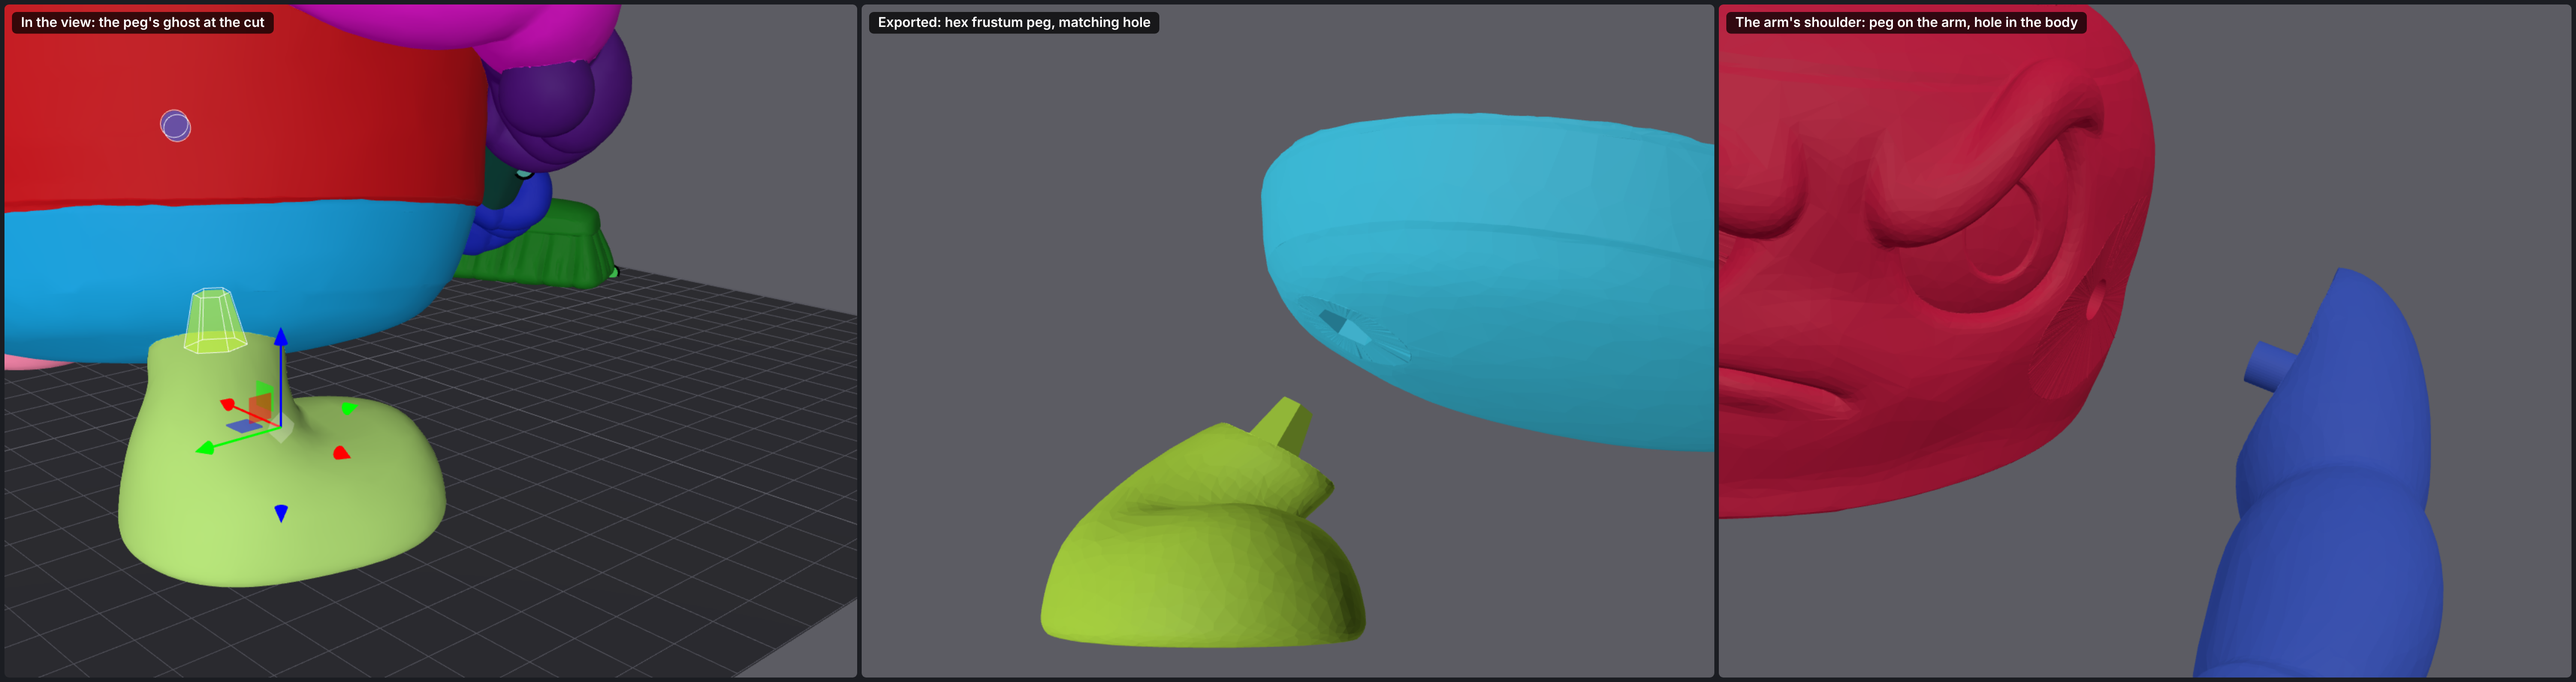
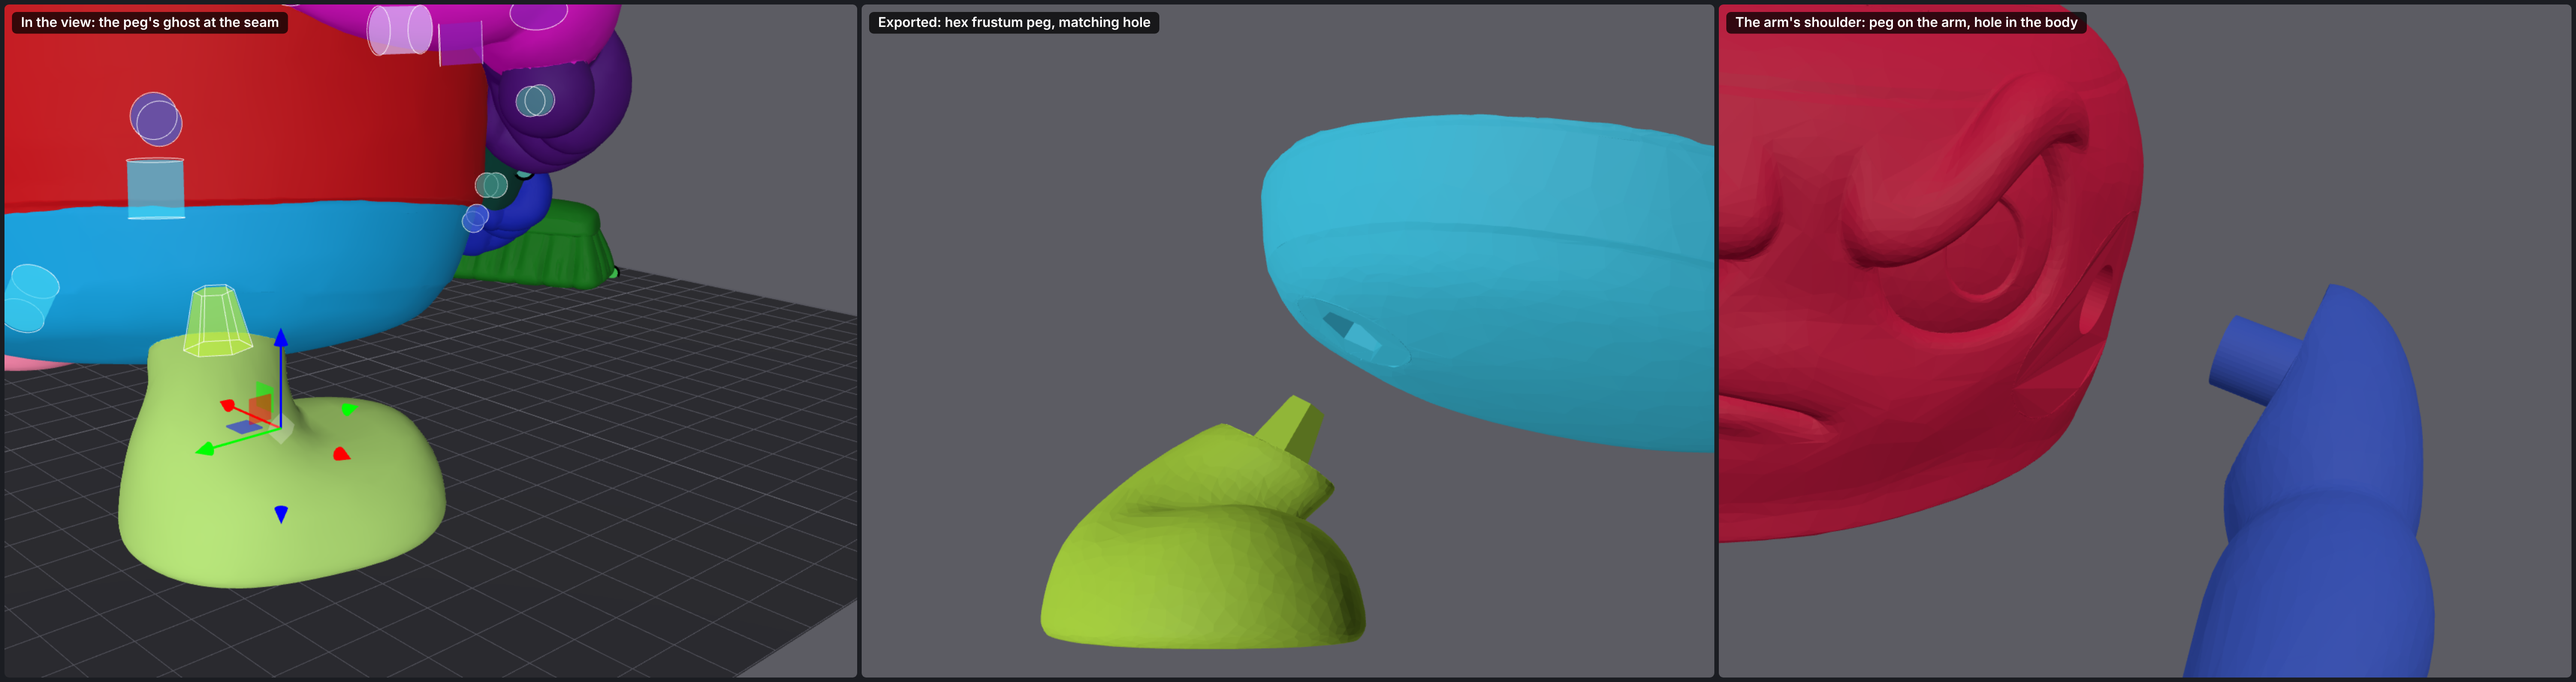
docs: connectors on seams, the Connectors section and part card
The recorder can clip the box around several elements.

Claude-Session: https://claude.ai/code/session_01FChPq3NmNDzMwYeW34SaJS

diff --git a/docs/features/demo/connectors.js b/docs/features/demo/connectors.js
@@ -1,26 +1,31 @@
-// Helpers for connectors.json: connectors on the curler's left foot and right arm (shoulder), and the exported parts (the multi-part
-// 3MF's meshes, connectors included) pulled apart along each connector's axis.
+// Helpers for connectors.json: every seam of the curler connected, the left foot's peg made a hexagonal frustum, and
+// the exported parts (the multi-part 3MF's meshes, connectors included) pulled apart along a connector's axis.
 (async () => {
   const THREE = await import("three"), S = app.S;
   window.wait = (ms) => new Promise((r) => setTimeout(r, ms));
   window.cam = (p, t) => { app.camera.position.set(...p); app.controls.target.set(...t); app.camera.up.set(0, 0, 1); app.camera.lookAt(...t); app.controls.update(); app.render(); };
-  const set = (i, o) => { S.parts[i].conn = { ...app.connDefaults(i, o.type || "plug"), ...o }; };
-  set(8, { shape: "hex", style: "frustum" }); // the left foot: a hexagonal, tapered peg into the base
-  set(3, {}); // the right arm: a round peg into the body at the shoulder
-  S.active = 8; app.afterEdit("");
-  const axis = (k) => new THREE.Vector3().setFromMatrixColumn(app.connPlan(k).F, 2);
-  const A = { 8: axis(8), 3: axis(3) }, color = Object.fromEntries(S.parts.map((p) => [p.name, p.color])), ex = {};
+  const names = ["Stone", "Broom head", "Right arm", "Handle", "Left hand", "Base", "Left arm", "Left foot", "Right foot", "Broom stick", "Eyes"];
+  names.forEach((n, k) => { S.parts[k + 1].name = n; });
+  const idx = (n) => S.parts.findIndex((p) => p.name === n);
+  app.connectSeams(app.seams());
+  const at = (a, b) => app.connState().list.find((e) => e.s && [e.s.a, e.s.b].sort().join() === [idx(a), idx(b)].sort().join());
+  app.editConns([at("Base", "Left foot").k], (c) => { c.shape = "hex"; c.style = "frustum"; }, "");
+  window.part = (n) => { S.active = idx(n); app.afterEdit(""); };
+  part("Left foot");
+  const axis = (e) => new THREE.Vector3().setFromMatrixColumn(e.pl.F, 2);
+  const arm = at("Stone", "Right arm"), A = { foot: axis(at("Base", "Left foot")), arm: axis(arm) };
+  const color = Object.fromEntries(S.parts.map((p) => [p.name, p.color])), ex = {};
   for (const p of app.buildParts3MF().parts) {
     const g = new THREE.BufferGeometry(); g.setAttribute("position", new THREE.BufferAttribute(p.pos, 3)); g.setIndex([...p.tri]);
     const m = new THREE.Mesh(g.toNonIndexed(), new THREE.MeshStandardMaterial({ color: p.name.endsWith("dowel") ? "#e4e4e4" : color[p.name], roughness: 0.7, flatShading: true }));
     m.geometry.computeVertexNormals(); m.visible = false; m.userData.ex = true; ex[p.name] = m; app.scene.add(m);
   }
   const ctr = (n) => { ex[n].geometry.computeBoundingBox(); return ex[n].geometry.boundingBox.getCenter(new THREE.Vector3()).toArray(); };
-  const side = new THREE.Vector3(0, 0, 1).cross(A[3]).normalize();
-  window.C = { side: side.toArray(), foot: ctr("Part 8"), shoulder: new THREE.Vector3().setFromMatrixPosition(app.connPlan(3).F).toArray(), out: A[3].toArray() };
-  window.explode = (names, moves) => { // show only the exported parts `names`, each moved d mm along connector k's axis
+  const side = new THREE.Vector3(0, 0, 1).cross(A.arm).normalize();
+  window.C = { side: side.toArray(), foot: ctr("Left foot"), shoulder: new THREE.Vector3().setFromMatrixPosition(arm.pl.F).toArray(), out: A.arm.toArray() };
+  window.explode = (shown, moves) => { // show only the exported parts `shown`, each moved d mm along connector k's axis
     app.scene.traverse((o) => { if ((o.isMesh || o.isLine || o.isLineSegments || o.isPoints) && !o.userData.ex) o.visible = false; });
-    for (const [n, m] of Object.entries(ex)) { m.visible = names.includes(n); m.position.set(0, 0, 0); }
+    for (const [n, m] of Object.entries(ex)) { m.visible = shown.includes(n); m.position.set(0, 0, 0); }
     for (const [n, [k, d]] of Object.entries(moves)) ex[n].position.copy(A[k]).multiplyScalar(d);
     app.render();
   };

diff --git a/docs/features/editing-parts.md b/docs/features/editing-parts.md
@@ -86,38 +86,48 @@ Adds a peg and a matching hole where two parts meet, like the connectors in Orca
 
 ![A connector: its ghost in the view, then the exported foot and base, and the arm pulled off the body at the shoulder](img/connectors.png)
 
-Connectors are placed for you: each sits at the center of the part's cut, points straight through it, and starts at the largest size that fits. You only pick which parts get one, and change any setting you like.
+Connectors go on **seams**: the places where two parts touch. A part has one seam for each part it touches, so a hand gets one to the arm and one to the stick it holds, and each seam can have its own connector. Where three parts meet, like a robot's hips, each pair's seam is its own flat face, so the parts' seams there can all take a connector.
+
+Connectors are placed for you: each sits at the point of its seam farthest from the edge, points straight through it, and is the largest size that fits (up to 12 mm, as deep as it is wide or, if that doesn't fit, a bit shallower). The hole goes in whichever part has room for the bigger one (on a tie, the peg goes on the smaller part).
 
 ### How to use it
 
-- **Every part at once:** click **All parts** under **Connector** (or right-click a part > **Connectors on all parts**). Each part's main cut that doesn't have a connector yet gets a plug, one per cut, where one fits. Then select any part to change its connector or set it to **None**. **Remove all** takes them all off.
-- **Several parts:** Ctrl+click or Shift+click parts in the list. A connector change then applies to all the selected parts.
-- **One part:**
+- **Every seam at once:** click **Connect all seams** under **Connectors**. Each seam without a connector gets a plug where one fits. **Remove all** takes them all off.
+- **One part's seams:** select the part. Its card lists its seams under **Connectors**: tick a seam to give it a plug, or click **Connect all** to do them all.
+- **A few parts:** Ctrl+click or Shift+click parts in the list, then click **Connect N seams between these parts** (the seams where the selected parts touch each other). When they don't touch each other, the button connects all of their seams instead.
 
-1. Select the part. The connector goes on its main cut: the one toward the bigger part it joins, such as a foot's cut to the base.
-2. Under **Connector**, pick **Plug** or **Dowel**.
-   - **Plug:** a peg on one part and a hole in the other. **Peg on** picks which part gets the peg.
-   - **Dowel:** a hole in both parts, plus a separate peg that exports as its own part (named "*part* dowel").
-3. Adjust it if you need to. It starts at the largest size that fits the cut.
+The line under **Connectors** counts them: "11 of 14 seams · 3 too small". Point at a count to see which seams it means.
 
-![The Connector settings in the Part section](img/connectors-ui.png)
+![The parts list with brackets for connected parts, and the Connectors section](img/connectors-list.png)
+
+- In the parts list, a pin icon shows how many connectors a part has (red when one doesn't fit). A bracket in the left margin joins each pair of connected parts; it's highlighted while you point at or select one of them.
+- **Skip pins under** (1 to 10 mm, 3 mm to start): a seam whose best pin is smaller than this gets none, and its row says **Too small**. Moving the slider updates the automatic connectors right away. Connectors whose size you've set stay as they are.
+
+### Change a connector
+
+Click a seam in the part card to open its settings under it. With several parts selected, the settings apply to every connector listed, and a field shows **Mixed** where they differ.
+
+![A part's seams, with one open](img/connectors-ui.png)
 
 | Setting | What it does |
 | --- | --- |
+| **Type** | **None**, **Plug** (a peg on one part and a hole in the other) or **Dowel** (a hole in both parts, plus a separate peg that exports as its own part, named "*part A* – *part B* dowel"). |
 | **Shape** | Circle, square, hexagon or triangle cross-section. Square, hexagon and triangle pegs can't turn in their holes. |
 | **Prism / Frustum** | Straight sides, or tapered to 60% at the tip, which eases fitting and avoids a flat overhang at the tip. |
-| **Size** | Width across flats (a circle's diameter), in mm. |
+| **Size** | Width across flats (a circle's diameter), in mm. Setting it (or **Depth**) fixes the size; until then it follows the seam. |
 | **Depth** | How far the peg goes into the other part, in mm. A dowel goes this far into each part. |
 | **Clearance** | Gap added to the hole on every side, in mm (the hole is also 0.2 mm plus the clearance deeper than the peg). 0.1 to 0.2 mm suits most PLA and PETG prints. |
+| **Peg on** | Which part gets the peg. With several parts selected, **Swap sides** flips each one. |
 
 ### Where it goes
 
-- The connector is built into **Part STLs** and the **multi-part 3MF** (Print as **Parts**, including Send to Orca). In OrcaSlicer, right-click the object > **Split** > **To objects** to print the parts apart.
-- One part, Painted and the Merged STL print the model as one piece, so they have no connectors.
-- In the view, the peg shows as a see-through ghost at the cut, in its part's color, with the hole's outline in white. Both turn red when it doesn't fit.
-- The part card says why a connector doesn't fit: the hole breaks out of its part (it wants 0.8 mm of wall around it), or the cut doesn't go around the connector's axis. The connector is left out of the files until it fits.
-- With **At the cut** set to Fill or Anchor, the parts print joined, so there's no connector.
-- Undo (Ctrl+Z) works on every change. The command line doesn't add connectors yet.
+- Connectors are built into **Part STLs** and the **multi-part 3MF** (Print as **Parts**, including Send to Orca). In OrcaSlicer, right-click the object > **Split** > **To objects** to print the parts apart.
+- One part, Painted and the Merged STL print the model as one piece, so they have no connectors. Under **Print as**, a note says so, with a **Print as Parts** button.
+- In the view, each peg shows as a see-through ghost at its seam, in its part's color, with the hole's outline in white. Both turn red when it doesn't fit. Pointing at a seam in the card outlines it in the view; clicking a ghost opens its seam in the card.
+- A seam's row says in red why its connector doesn't fit, for example the hole breaks out of its part (it wants 0.8 mm of wall around it) or the seam is too slanted. The connector is left out of the files until it fits.
+- Some seams can't take a connector, and their rows say why: a part replaced with a file or with **Trim overlap** on, a recess, or **At the cut** set to Fill or Anchor (the parts print joined).
+- When the parts change so that two parts no longer touch, their connector is kept but left out, and the line under **Connectors** says how many lost their seam.
+- Undo (Ctrl+Z) works on every change, and sessions save connectors. The command line doesn't add connectors yet.
 
 ## Show only this part
 

diff --git a/README.md b/README.md
@@ -16,7 +16,7 @@ Every feature is documented with pictures on the [docs site](https://d-carrigg.g
 - **[Rotate on joint](https://d-carrigg.github.io/mesh-splitter/features/transforms/#rotate-on-joint):** spin a part about its cut's axis (J), so a part on an angled surface stays seated on it.
 - **[Heal joint](https://d-carrigg.github.io/mesh-splitter/features/transforms/#heal-joint):** after moving or rotating a part, stretch or squeeze it near its cut so the cut's edge lands back on its neighbor (no gap).
 - **[Fill and anchor](https://d-carrigg.github.io/mesh-splitter/features/transforms/#fill-and-anchor):** when a part moves off another, patch the hole it leaves (Fill), or keep it joined with new material (Anchor).
-- **[Connectors](https://d-carrigg.github.io/mesh-splitter/features/editing-parts/#connectors):** add a peg and matching hole (plug), or a separate dowel, where two parts meet, so parts printed separately line up and glue together.
+- **[Connectors](https://d-carrigg.github.io/mesh-splitter/features/editing-parts/#connectors):** add a peg and matching hole (plug), or a separate dowel, on every seam where two parts meet at once or on just the ones you pick, so parts printed separately line up and glue together.
 - **[Replace with…](https://d-carrigg.github.io/mesh-splitter/features/editing-parts/#replace-with):** right-click a part and swap in another STL. It snaps onto the joint and keeps the part's name and filament. A replacement made from the same model, such as edited eyes, stays in place.
 - **[Send to Orca](https://d-carrigg.github.io/mesh-splitter/features/exporting/#send-to-orca):** the edited model goes back on the plate: next to the original, in its place, or filling the plate. **Print as** picks one part on the original's filament, one painted part, or separate parts on their own filaments. Painted 3MF, merged STL and per-part STLs are also available.
 - **[Command line](https://d-carrigg.github.io/mesh-splitter/features/command-line/):** `uv run mesh-splitter split model.stl --auto 6 -o model.3mf` splits and exports without opening the app, with the same results.

diff --git a/plugin/DESCRIPTION.md b/plugin/DESCRIPTION.md
@@ -12,7 +12,7 @@ For the example photo, I made the eyes 1 part, then replaced them with a flipped
 - **Move, rotate, scale:** move, rotate, and scale both within the context of the world axes and of the part orientation. This means you can do things like rotate limbs and increase specific part sizes.
 - **Multicolor / multi-material printing:** individual parts can be given their own materials and colors pulled from your printer.
 - **Replace with…:** right-click a part and swap in another STL. It snaps onto the joint and keeps the part's name and filament.
-- **Connectors:** add a peg and matching hole (plug), or a separate dowel, where two parts meet, like the connectors in OrcaSlicer's Cut tool.
+- **Connectors:** add a peg and matching hole (plug), or a separate dowel, on every seam where two parts meet at once or on just the ones you pick, like the connectors in OrcaSlicer's Cut tool.
 - **Send to Orca:** the edited model goes back on the plate: next to the original, in its place, or filling the plate. **Print as** picks one part on the original's filament, one painted part, or separate parts on their own filaments. Painted 3MF, merged STL and per-part STLs are also available.
 
 ## How to use
